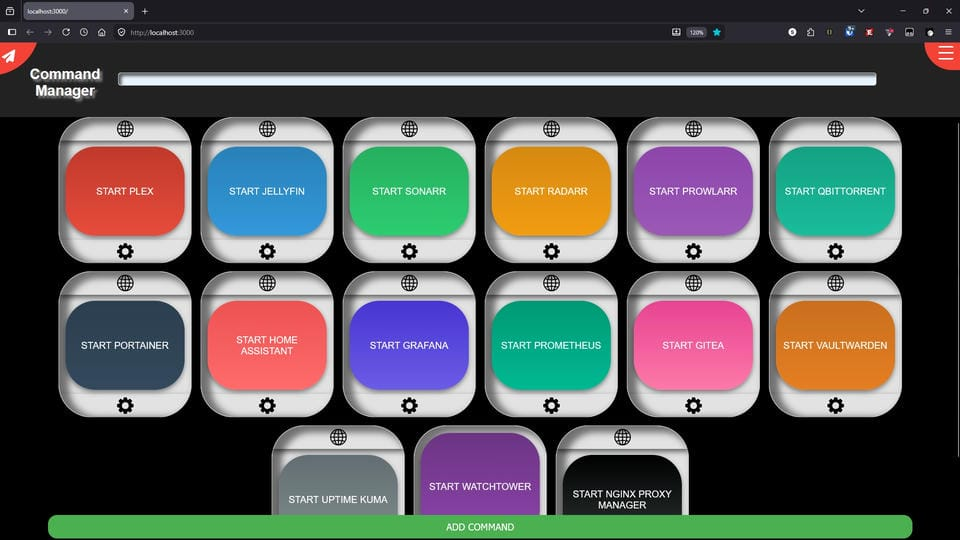
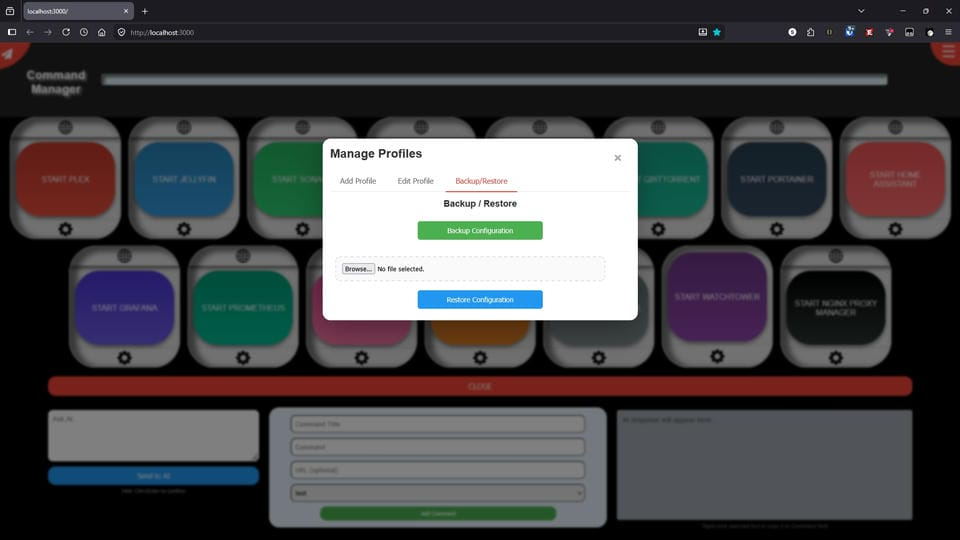
Refactor code structure for improved readability and maintainability

diff --git a/README.md b/README.md
@@ -21,6 +21,9 @@
 ### Backup & Restore
 ![Backup & Restore](sample_preview/backup_restore.jpg)
 
+### Sample Preview
+![Sample Preview](sample_preview/sample_preview.jpg)
+
 ---
 
 ### Docker